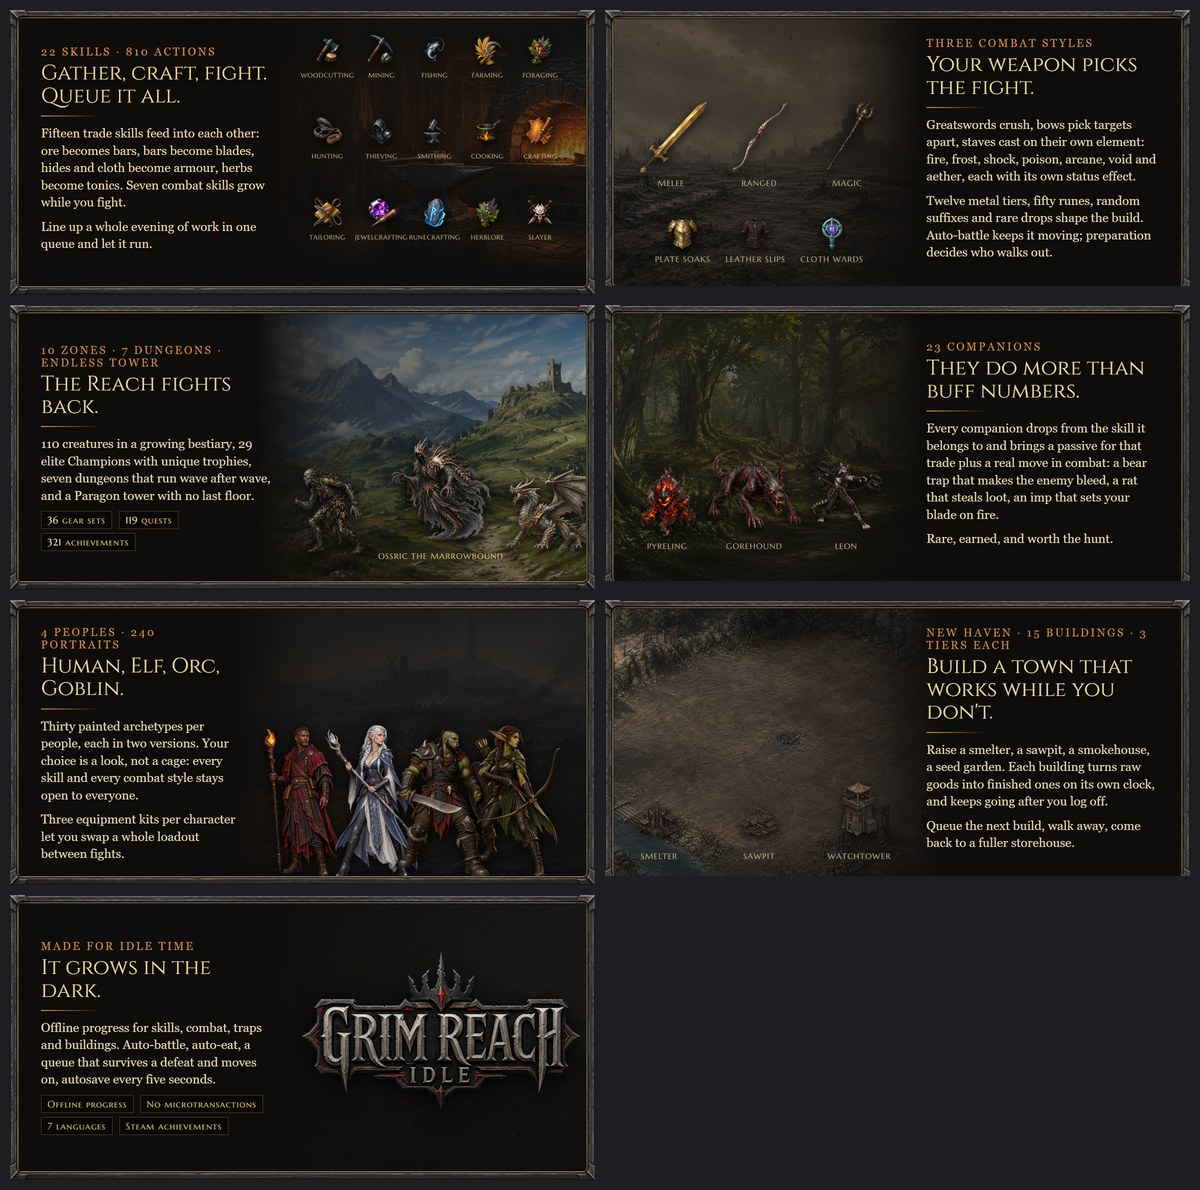
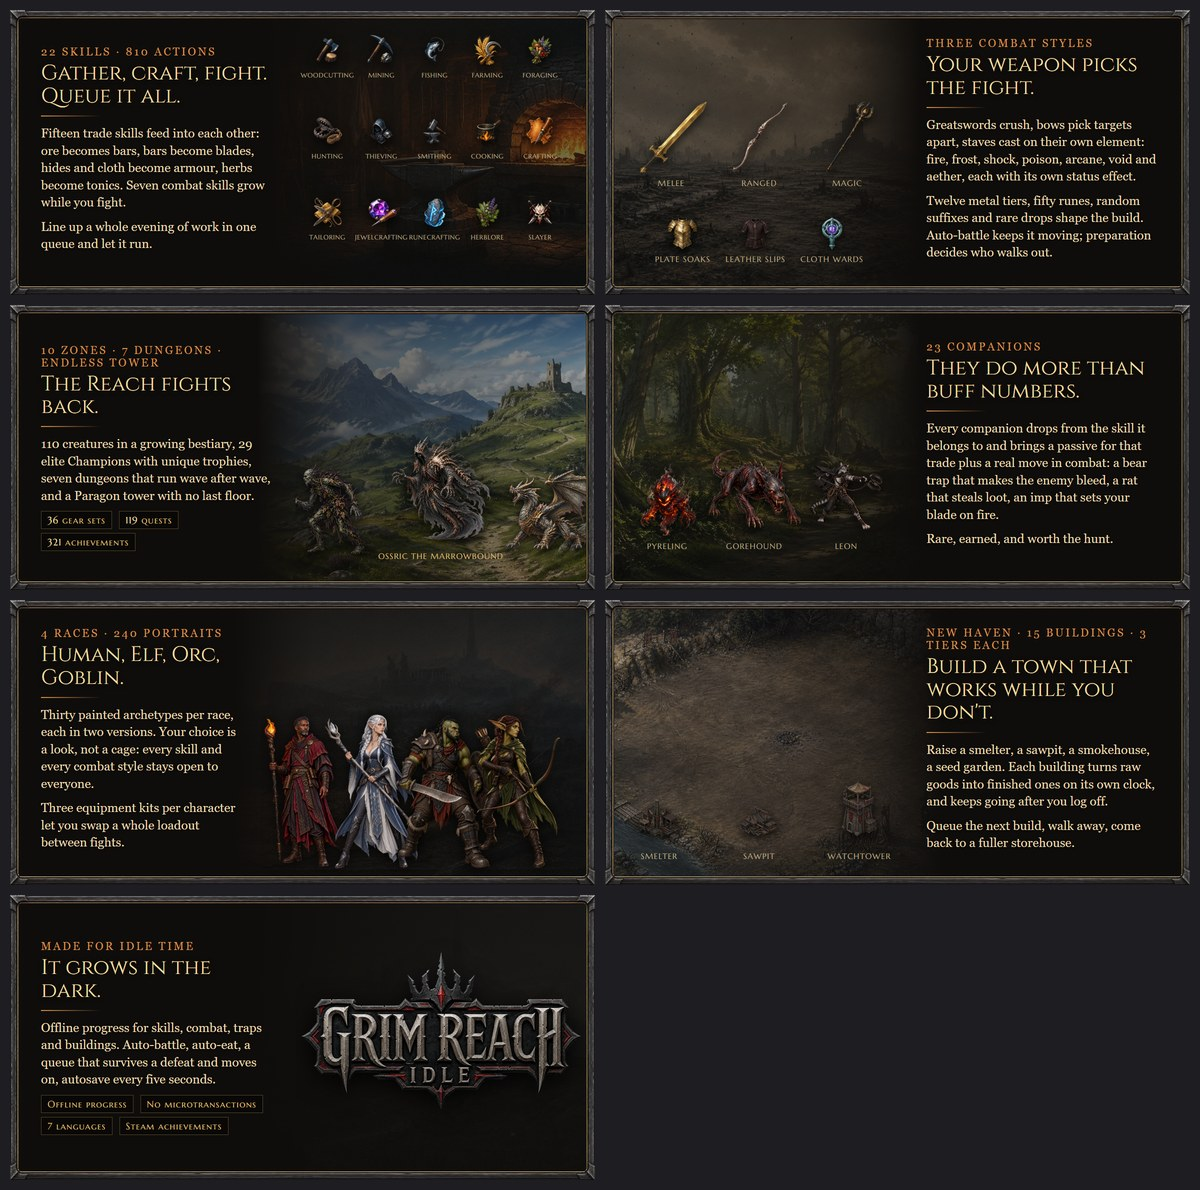
Store-Panels: Einzel-Render ohne Fensterbeschnitt (voller Rahmen unten), Panel 5 races statt peoples

diff --git a/design/steam-store-panels-1.2.0/panels.html b/design/steam-store-panels-1.2.0/panels.html
@@ -159,10 +159,10 @@
   <div class="art"><img src="file:///G:/GameDev/apps/client/src/renderer/assets/ui/mainmenu_war_table.webp" style="left:0;top:0;width:100%;height:100%;opacity:.35"><div class="fade" style="background:linear-gradient(90deg,#0f0d0b 38%,rgba(15,13,11,.6) 52%,rgba(15,13,11,.35) 100%)"></div></div>
   <div class="body">
     <div class="text">
-      <div class="eyebrow">4 peoples · 240 portraits</div>
+      <div class="eyebrow">4 races · 240 portraits</div>
       <h2>Human, Elf, Orc, Goblin.</h2>
       <div class="rule"></div>
-      <p>Thirty painted archetypes per people, each in two versions. Your choice is a look, not a cage: every skill and every combat style stays open to everyone.</p>
+      <p>Thirty painted archetypes per race, each in two versions. Your choice is a look, not a cage: every skill and every combat style stays open to everyone.</p>
       <p>Three equipment kits per character let you swap a whole loadout between fights.</p>
     </div>
     <div class="visual">

diff --git a/design/steam-store-copy-1.2.0.md b/design/steam-store-copy-1.2.0.md
@@ -36,8 +36,8 @@ Ten zones from the pastures to the idol halls, a bestiary of 110 creatures, and 
 Twenty-three companions, each earned from the skill it belongs to. Every one brings a passive for its trade and a real move in combat: a bear trap that makes the enemy bleed, a rat that steals loot from your target, an imp that sets your blade on fire, a moth that veils the enemy's eyes. They are rare, and the card tells you exactly what they do before you have them.
 
 [h2]Human, Elf, Orc, Goblin.[/h2]
-[img]panel_05_peoples.png[/img]
-Four peoples with thirty painted archetypes each, in two versions. Your choice is a look, not a cage: every skill and every combat style stays open to everyone. Three equipment kits per character let you swap a full loadout, tools included, between fights.
+[img]panel_05_races.png[/img]
+Four races with thirty painted archetypes each, in two versions. Your choice is a look, not a cage: every skill and every combat style stays open to everyone. Three equipment kits per character let you swap a full loadout, tools included, between fights.
 
 [h2]Build a town that works while you don't.[/h2]
 [img]panel_06_newhaven.png[/img]
